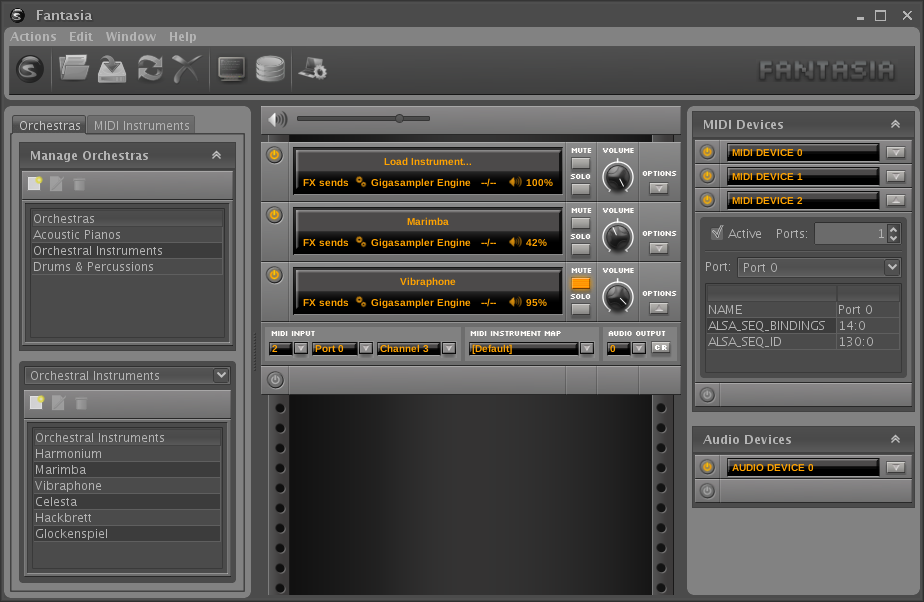
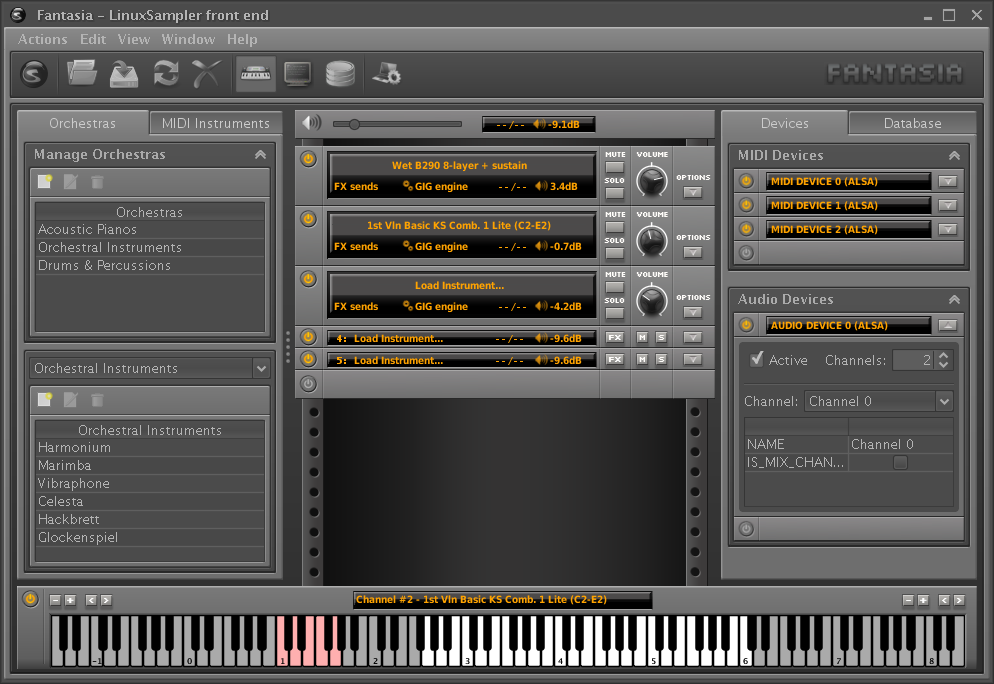
fantasia/site: update screenshot and other minor updates

diff --git a/docs/index.html b/docs/index.html
@@ -1,6 +1,6 @@
-<html><head><meta http-equiv="Content-Type" content="text/html; charset=UTF-8"><title>JSampler Manual</title><link rel="stylesheet" type="text/css" href="jsampler.css"><meta name="generator" content="DocBook XSL Stylesheets Vsnapshot"></head><body bgcolor="white" text="black" link="#0000FF" vlink="#840084" alink="#0000FF"><div class="book"><div class="titlepage"><div><div><h1 class="title"><a name="idm1"></a>JSampler Manual</h1></div><div><div class="author"><h3 class="author"><span class="firstname">by Grigor</span> <span class="surname">Iliev</span></h3></div></div><div><p class="copyright">Copyright © 2023 Grigor Iliev &lt;grigor@grigoriliev.com&gt;</p></div><div><div class="legalnotice"><a name="idm10"></a><p>This document is released under the terms of the <a class="ulink" href="gfdl.html" target="_top">GNU Free Documentation License</a>.</p></div></div><div><p class="pubdate">Updated: Tue, 6 March 2023</p></div></div><hr></div><div class="toc"><p><b>Table of Contents</b></p><dl class="toc"><dt><span class="chapter"><a href="#INTRODUCTION">1. Introduction</a></span></dt><dd><dl><dt><span class="section"><a href="#WHAT_IS_JSAMPLER">What is JSampler?</a></span></dt></dl></dd><dt><span class="chapter"><a href="#SCREENSHOTS">2. Screenshots</a></span></dt><dt><span class="chapter"><a href="#INSTALLATION">3. Installation</a></span></dt><dd><dl><dt><span class="section"><a href="#DOWNLOAD">What to download?</a></span></dt><dt><span class="section"><a href="#REQUIREMENTS">Requirements</a></span></dt></dl></dd><dt><span class="chapter"><a href="#BUILDING_FROM_SOURCE">4. Building from source</a></span></dt><dd><dl><dt><span class="section"><a href="#BUILDING_FROM_GIT">Building from GIT</a></span></dt><dt><span class="section"><a href="#COMPILATION">Compilation</a></span></dt></dl></dd><dt><span class="chapter"><a href="#BUILDING_INSTALLERS">5. Building installers</a></span></dt><dt><span class="chapter"><a href="#USING_ORCHESTRAS">6. Using Orchestras</a></span></dt><dd><dl><dt><span class="section"><a href="#MANAGING_ORCHESTRAS">Managing Orchestras</a></span></dt><dt><span class="section"><a href="#MANAGING_INSTRUMENTS">Managing Instruments</a></span></dt><dt><span class="section"><a href="#LOADING_ORCHESTRA_INSTRUMENTS">Loading Instruments</a></span></dt></dl></dd><dt><span class="chapter"><a href="#MIDI_INSTRUMENTS">7. MIDI Instruments</a></span></dt><dd><dl><dt><span class="section"><a href="#idm181">Managing MIDI Instrument Maps</a></span></dt><dt><span class="section"><a href="#idm204">Managing MIDI Instruments</a></span></dt><dt><span class="section"><a href="#idm227">Assigning MIDI Instrument Map To Sampler Channel</a></span></dt><dt><span class="section"><a href="#MIDI_INSTRUMENTS_EXPORT">Exporting MIDI Instrument Maps</a></span></dt></dl></dd><dt><span class="chapter"><a href="#INSTRUMENTS_DATABASE">8. Instruments Database</a></span></dt><dd><dl><dt><span class="section"><a href="#idm268">Adding Instruments To The Instruments Database</a></span></dt><dt><span class="section"><a href="#idm283">Managing Instruments And Directories</a></span></dt><dt><span class="section"><a href="#idm321">Loading Instruments From The Instruments Database</a></span></dt><dt><span class="section"><a href="#INSTRUMENTS_DB_ADD_TO_MAP">Adding Instruments To MIDI Instrument Map</a></span></dt><dt><span class="section"><a href="#idm334">Adding Instruments To Orchestra From The Instruments
-      Database</a></span></dt><dt><span class="section"><a href="#idm342">Finding Instruments</a></span></dt></dl></dd></dl></div><div class="chapter"><div class="titlepage"><div><div><h1 class="title"><a name="INTRODUCTION"></a>Chapter 1. Introduction</h1></div></div></div><div class="toc"><p><b>Table of Contents</b></p><dl class="toc"><dt><span class="section"><a href="#WHAT_IS_JSAMPLER">What is JSampler?</a></span></dt></dl></div><div class="section"><div class="titlepage"><div><div><h2 class="title" style="clear: both"><a name="WHAT_IS_JSAMPLER"></a>What is JSampler?</h2></div></div></div><p>
-      JSampler is an opensource, platform-independent, GUI front-end for
+<html><head><meta http-equiv="Content-Type" content="text/html; charset=UTF-8"><title>Fantasia Manual</title><link rel="stylesheet" type="text/css" href="jsampler.css"><meta name="generator" content="DocBook XSL Stylesheets Vsnapshot"></head><body bgcolor="white" text="black" link="#0000FF" vlink="#840084" alink="#0000FF"><div class="book"><div class="titlepage"><div><div><h1 class="title"><a name="idm1"></a>Fantasia Manual</h1></div><div><div class="author"><h3 class="author"><span class="firstname">by Grigor</span> <span class="surname">Iliev</span></h3></div></div><div><p class="copyright">Copyright © 2023 Grigor Iliev &lt;grigor@grigoriliev.com&gt;</p></div><div><div class="legalnotice"><a name="idm10"></a><p>This document is released under the terms of the <a class="ulink" href="gfdl.html" target="_top">GNU Free Documentation License</a>.</p></div></div><div><p class="pubdate">Updated: March 2023</p></div></div><hr></div><div class="toc"><p><b>Table of Contents</b></p><dl class="toc"><dt><span class="chapter"><a href="#INTRODUCTION">1. Introduction</a></span></dt><dd><dl><dt><span class="section"><a href="#WHAT_IS_FANTASIA">What is Fantasia?</a></span></dt></dl></dd><dt><span class="chapter"><a href="#SCREENSHOTS">2. Screenshots</a></span></dt><dt><span class="chapter"><a href="#INSTALLATION">3. Installation</a></span></dt><dd><dl><dt><span class="section"><a href="#DOWNLOAD">What to download?</a></span></dt><dt><span class="section"><a href="#REQUIREMENTS">Requirements</a></span></dt></dl></dd><dt><span class="chapter"><a href="#BUILDING_FROM_SOURCE">4. Building from source</a></span></dt><dd><dl><dt><span class="section"><a href="#BUILDING_FROM_GIT">Building from GIT</a></span></dt><dt><span class="section"><a href="#COMPILATION">Compilation</a></span></dt></dl></dd><dt><span class="chapter"><a href="#BUILDING_INSTALLERS">5. Building installers</a></span></dt><dt><span class="chapter"><a href="#USING_ORCHESTRAS">6. Using Orchestras</a></span></dt><dd><dl><dt><span class="section"><a href="#MANAGING_ORCHESTRAS">Managing Orchestras</a></span></dt><dt><span class="section"><a href="#MANAGING_INSTRUMENTS">Managing Instruments</a></span></dt><dt><span class="section"><a href="#LOADING_ORCHESTRA_INSTRUMENTS">Loading Instruments</a></span></dt></dl></dd><dt><span class="chapter"><a href="#MIDI_INSTRUMENTS">7. MIDI Instruments</a></span></dt><dd><dl><dt><span class="section"><a href="#idm181">Managing MIDI Instrument Maps</a></span></dt><dt><span class="section"><a href="#idm204">Managing MIDI Instruments</a></span></dt><dt><span class="section"><a href="#idm227">Assigning MIDI Instrument Map To Sampler Channel</a></span></dt><dt><span class="section"><a href="#MIDI_INSTRUMENTS_EXPORT">Exporting MIDI Instrument Maps</a></span></dt></dl></dd><dt><span class="chapter"><a href="#INSTRUMENTS_DATABASE">8. Instruments Database</a></span></dt><dd><dl><dt><span class="section"><a href="#idm268">Adding Instruments To The Instruments Database</a></span></dt><dt><span class="section"><a href="#idm283">Managing Instruments And Directories</a></span></dt><dt><span class="section"><a href="#idm321">Loading Instruments From The Instruments Database</a></span></dt><dt><span class="section"><a href="#INSTRUMENTS_DB_ADD_TO_MAP">Adding Instruments To MIDI Instrument Map</a></span></dt><dt><span class="section"><a href="#idm334">Adding Instruments To Orchestra From The Instruments
+      Database</a></span></dt><dt><span class="section"><a href="#idm342">Finding Instruments</a></span></dt></dl></dd></dl></div><div class="chapter"><div class="titlepage"><div><div><h1 class="title"><a name="INTRODUCTION"></a>Chapter 1. Introduction</h1></div></div></div><div class="toc"><p><b>Table of Contents</b></p><dl class="toc"><dt><span class="section"><a href="#WHAT_IS_FANTASIA">What is Fantasia?</a></span></dt></dl></div><div class="section"><div class="titlepage"><div><div><h2 class="title" style="clear: both"><a name="WHAT_IS_FANTASIA"></a>What is Fantasia?</h2></div></div></div><p>
+      Fantasia is an opensource, platform-independent, GUI front-end for
       <a class="ulink" href="http://www.linuxsampler.org" target="_top">LinuxSampler</a>, written
       entirely in <a class="ulink" href="http://java.sun.com" target="_top">Java</a>.
       </p></div></div><div class="chapter"><div class="titlepage"><div><div><h1 class="title"><a name="SCREENSHOTS"></a>Chapter 2. Screenshots</h1></div></div></div><p>Fantasia</p><p><a class="ulink" href="images/fantasia.png" target="_top"><img src="images/fantasia-preview.png"></a></p></div><div class="chapter"><div class="titlepage"><div><div><h1 class="title"><a name="INSTALLATION"></a>Chapter 3. Installation</h1></div></div></div><div class="toc"><p><b>Table of Contents</b></p><dl class="toc"><dt><span class="section"><a href="#DOWNLOAD">What to download?</a></span></dt><dt><span class="section"><a href="#REQUIREMENTS">Requirements</a></span></dt></dl></div><p></p><div class="section"><div class="titlepage"><div><div><h2 class="title" style="clear: both"><a name="DOWNLOAD"></a>What to download?</h2></div></div></div><p>
@@ -11,12 +11,12 @@
       Fantasia is packaged as a self-contained Java application.
       Thus, there are no requirements.
       </p><p>
-      To build JSampler distribution from source you need JDK version
+      To build Fantasia from source you need JDK version
       11 or higher and the <a class="ulink" href="http://maven.apache.org/" target="_top">maven
       tool</a>.
       To build the installers, you need the <a class="ulink" href="http://ant.apache.org/" target="_top">Ant
       tool</a>.
-      </p></div></div><div class="chapter"><div class="titlepage"><div><div><h1 class="title"><a name="BUILDING_FROM_SOURCE"></a>Chapter 4. Building from source</h1></div></div></div><div class="toc"><p><b>Table of Contents</b></p><dl class="toc"><dt><span class="section"><a href="#BUILDING_FROM_GIT">Building from GIT</a></span></dt><dt><span class="section"><a href="#COMPILATION">Compilation</a></span></dt></dl></div><p>If you want to build a JSampler distribution from source, first make
+      </p></div></div><div class="chapter"><div class="titlepage"><div><div><h1 class="title"><a name="BUILDING_FROM_SOURCE"></a>Chapter 4. Building from source</h1></div></div></div><div class="toc"><p><b>Table of Contents</b></p><dl class="toc"><dt><span class="section"><a href="#BUILDING_FROM_GIT">Building from GIT</a></span></dt><dt><span class="section"><a href="#COMPILATION">Compilation</a></span></dt></dl></div><p>If you want to build Fantasia from source, first make
     sure that all <a class="link" href="#REQUIREMENTS" title="Requirements">requirements</a> are
     met.</p><div class="section"><div class="titlepage"><div><div><h2 class="title" style="clear: both"><a name="BUILDING_FROM_GIT"></a>Building from GIT</h2></div></div></div><p>To build from GIT, first clone the following projects:</p><div class="itemizedlist"><ul class="itemizedlist" style="list-style-type: disc; "><li class="listitem"><p>
             	git clone <a class="ulink" href="https://github.com/grigoriliev/juife.git" target="_top">https://github.com/grigoriliev/juife.git</a>
